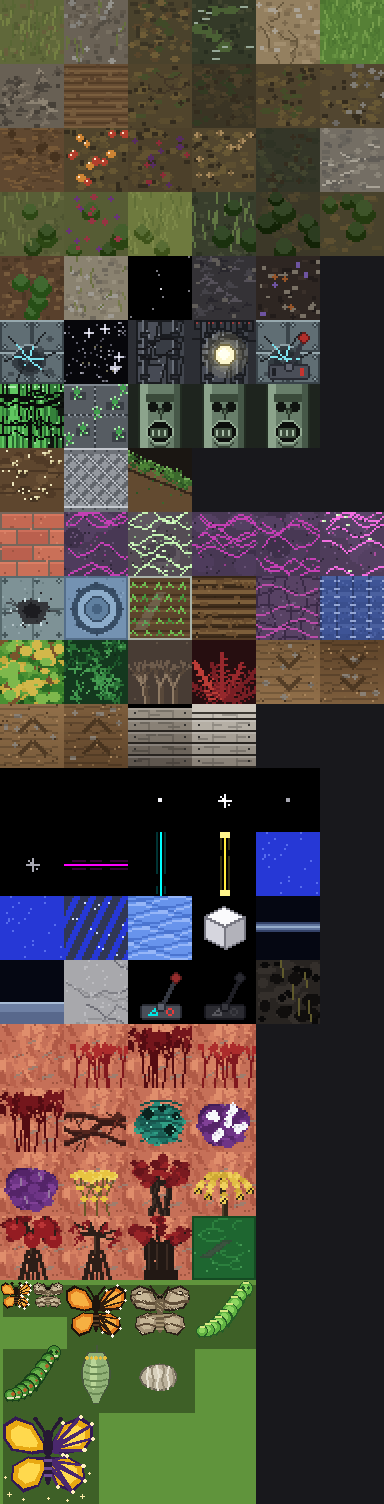
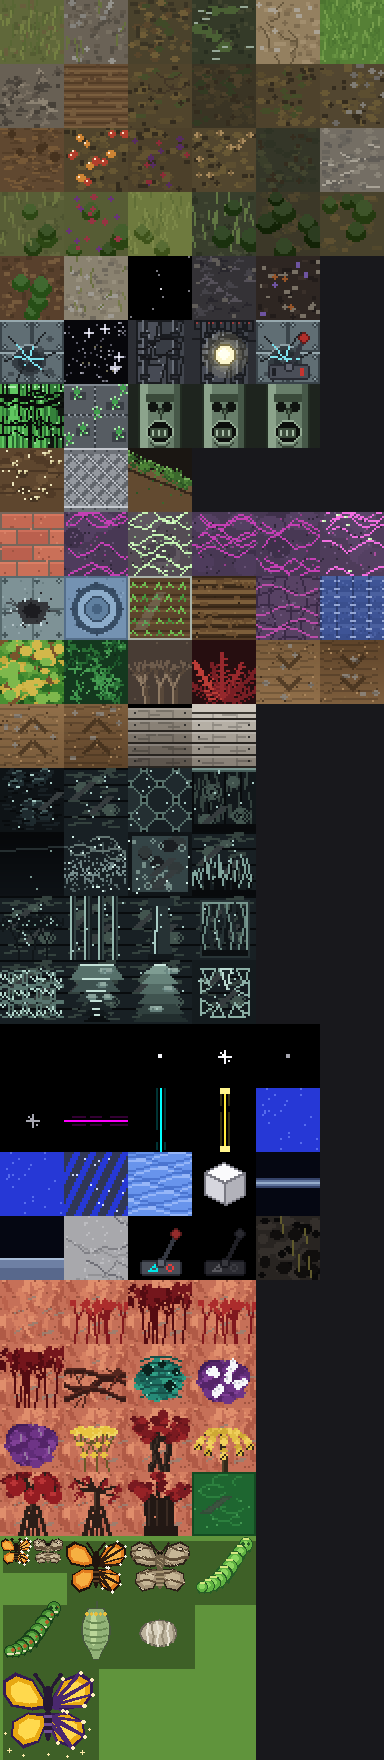
Coverage audit: record for 2g.4 batch 6

diff --git a/coverage-audit/REPORT.md b/coverage-audit/REPORT.md
@@ -277,6 +277,26 @@ movement (overlay method, baseline 122 reproduced first): 22
 direct, no rescues — terrain missing **122 → 100**, coverage
 **90.4% → 92.1%** (1,149/1,271 → 1,171/1,271).
 
+## Created: the vitrified terrain (Phase 2g.4 batch 6, 2026-11-15)
+
+**All 16 missing ids in `terrain_vitrified.json`** — a landscape
+fused to glass: pebbled black-glass dirt, wood-whorl glass floor
+and wall, octagonal glass tile, dusty vitrified sand, and the glass
+wall with murky shapes frozen inside it (drawn full-tile: the
+translucency is a property of the pane itself), plus the feature
+set over `bg: t_vitrified_floor` — razor grass, spiral bush, thick
+glass bars, faceted column, draped-glass curtains, barbed coil
+fence, both stairs, and the smashed window frame. Palette:
+near-black blue-teal glass with pale specular light.
+`new-tiles/draw_vitrified_terrain.py`;
+`new-tiles/preview_vitrified_terrain.png`.
+
+Verified per the 2g.4 gate (parent re-run): **16 materials, all
+`exact`, 0 missing** (48 layers), byte-identical re-run. Coverage
+movement (overlay method, sequential chain from batch 5's 100):
+16 direct, no rescues — terrain missing **100 → 84**, coverage
+**92.1% → 93.4%** (1,171/1,271 → 1,187/1,271).
+
 ## Status
 
 Batches are committed locally as they land (butterfly/moth in

diff --git a/coverage-audit/new-tiles/README.md b/coverage-audit/new-tiles/README.md
@@ -1,5 +1,21 @@
 # New tiles: the butterfly and moth lifecycles, the alien meadow, the string dimension, the regional templates
 
+## Terrain batch 6: the vitrified terrain (Phase 2g.4, 2026-11-15)
+
+**All 16 missing ids in `terrain_vitrified.json`** — black-glass
+dirt, whorled glass floor/wall, octagonal glass tile, vitrified
+sand, and the glass wall with murky shapes frozen inside (full-tile;
+the translucency is the pane's own property), plus razor grass,
+spiral bush, glass bars, column, curtains, barbed fence, both
+stairs, and the smashed window frame over `bg: t_vitrified_floor`.
+Near-black blue-teal glass, pale specular light. Drawn by
+`draw_vitrified_terrain.py` (PIL, deterministic).
+
+Verified: release voxelizer test-tileset run, **16 materials, all
+`exact`, 0 missing** (48 layers), byte-identical re-run, parent
+re-verified. `preview_vitrified_terrain.png` is the contact sheet.
+Coverage: terrain missing **100 → 84**, coverage **92.1% → 93.4%**.
+
 ## Terrain batch 5: floors, roofs, z-level transitions (Phase 2g.4, 2026-11-15)
 
 **22 ids** from `terrain-floors-indoor.json`, `terrain-roofs.json`,
